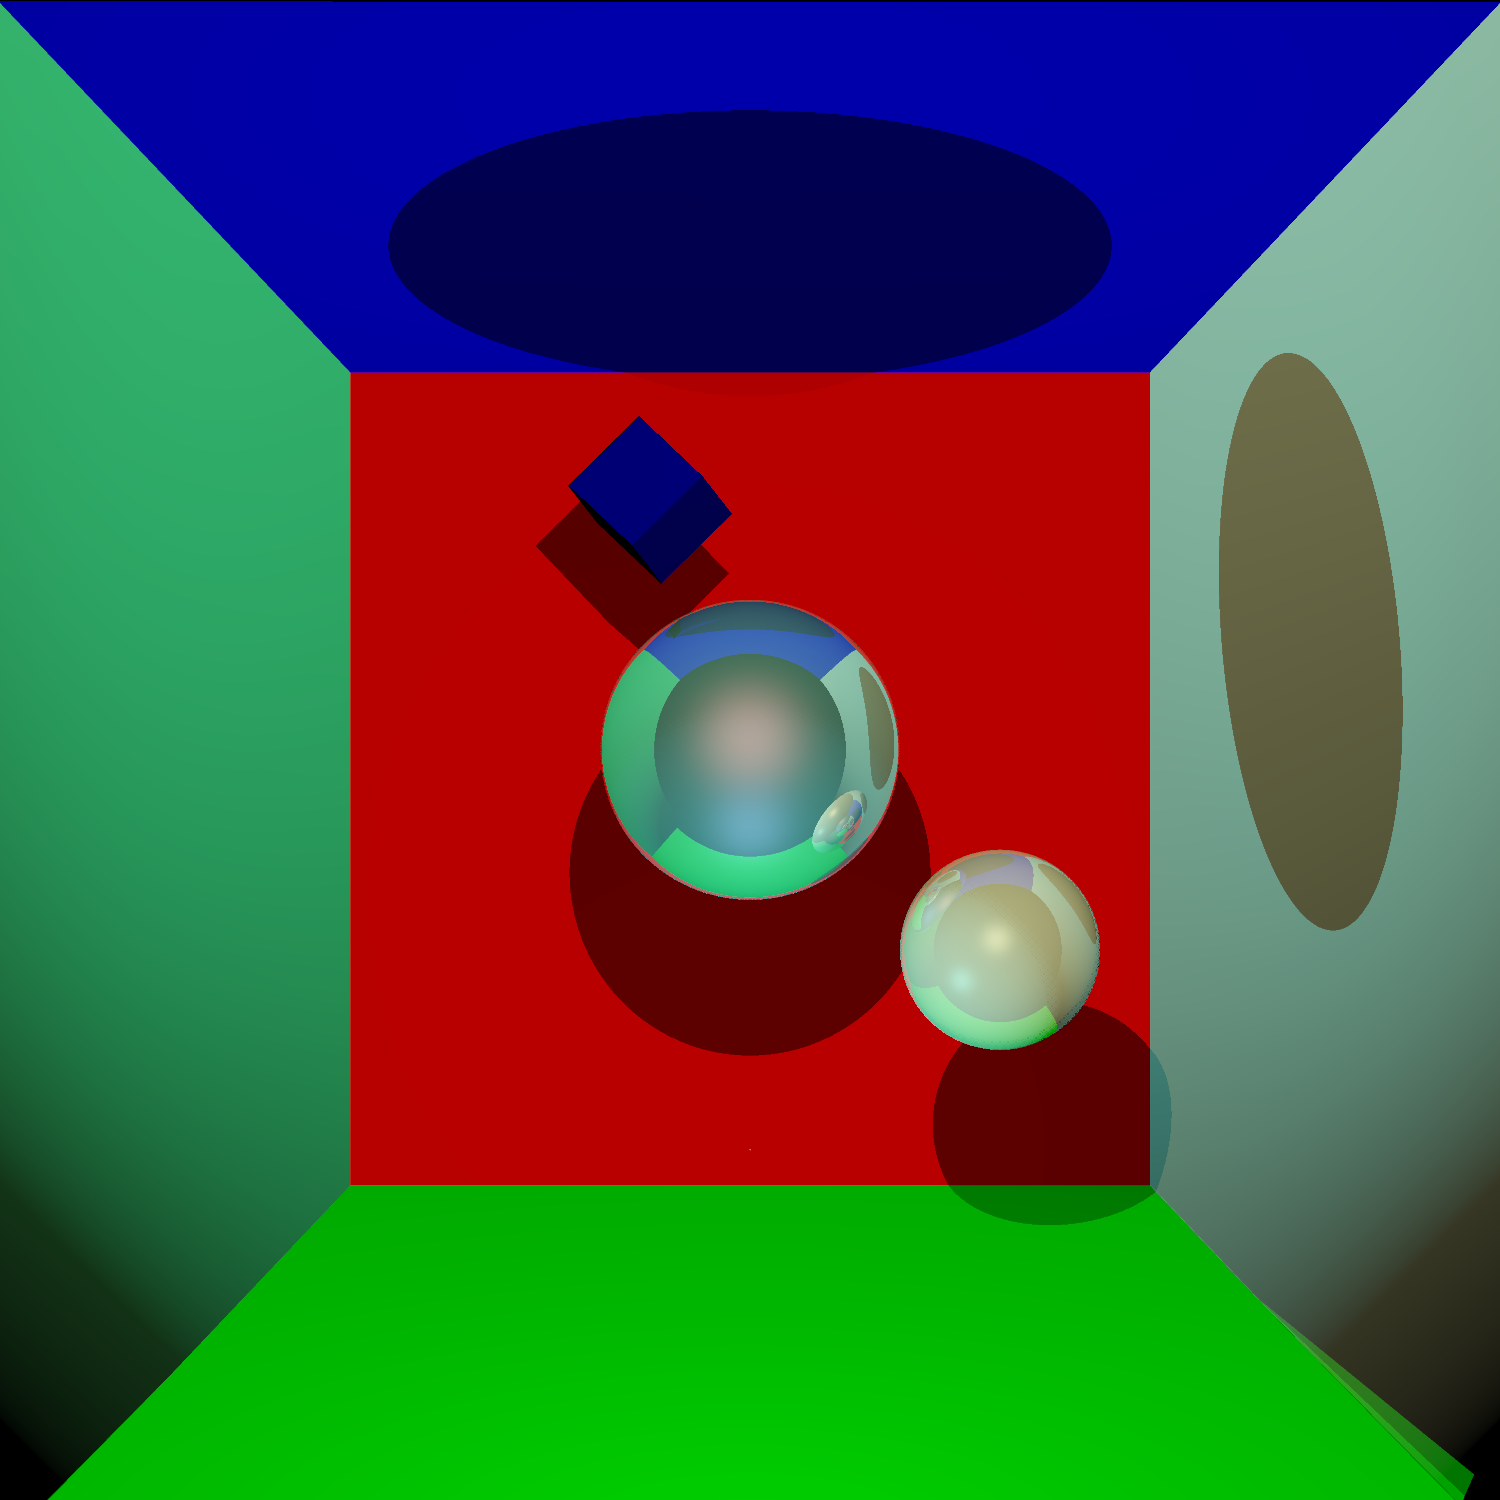
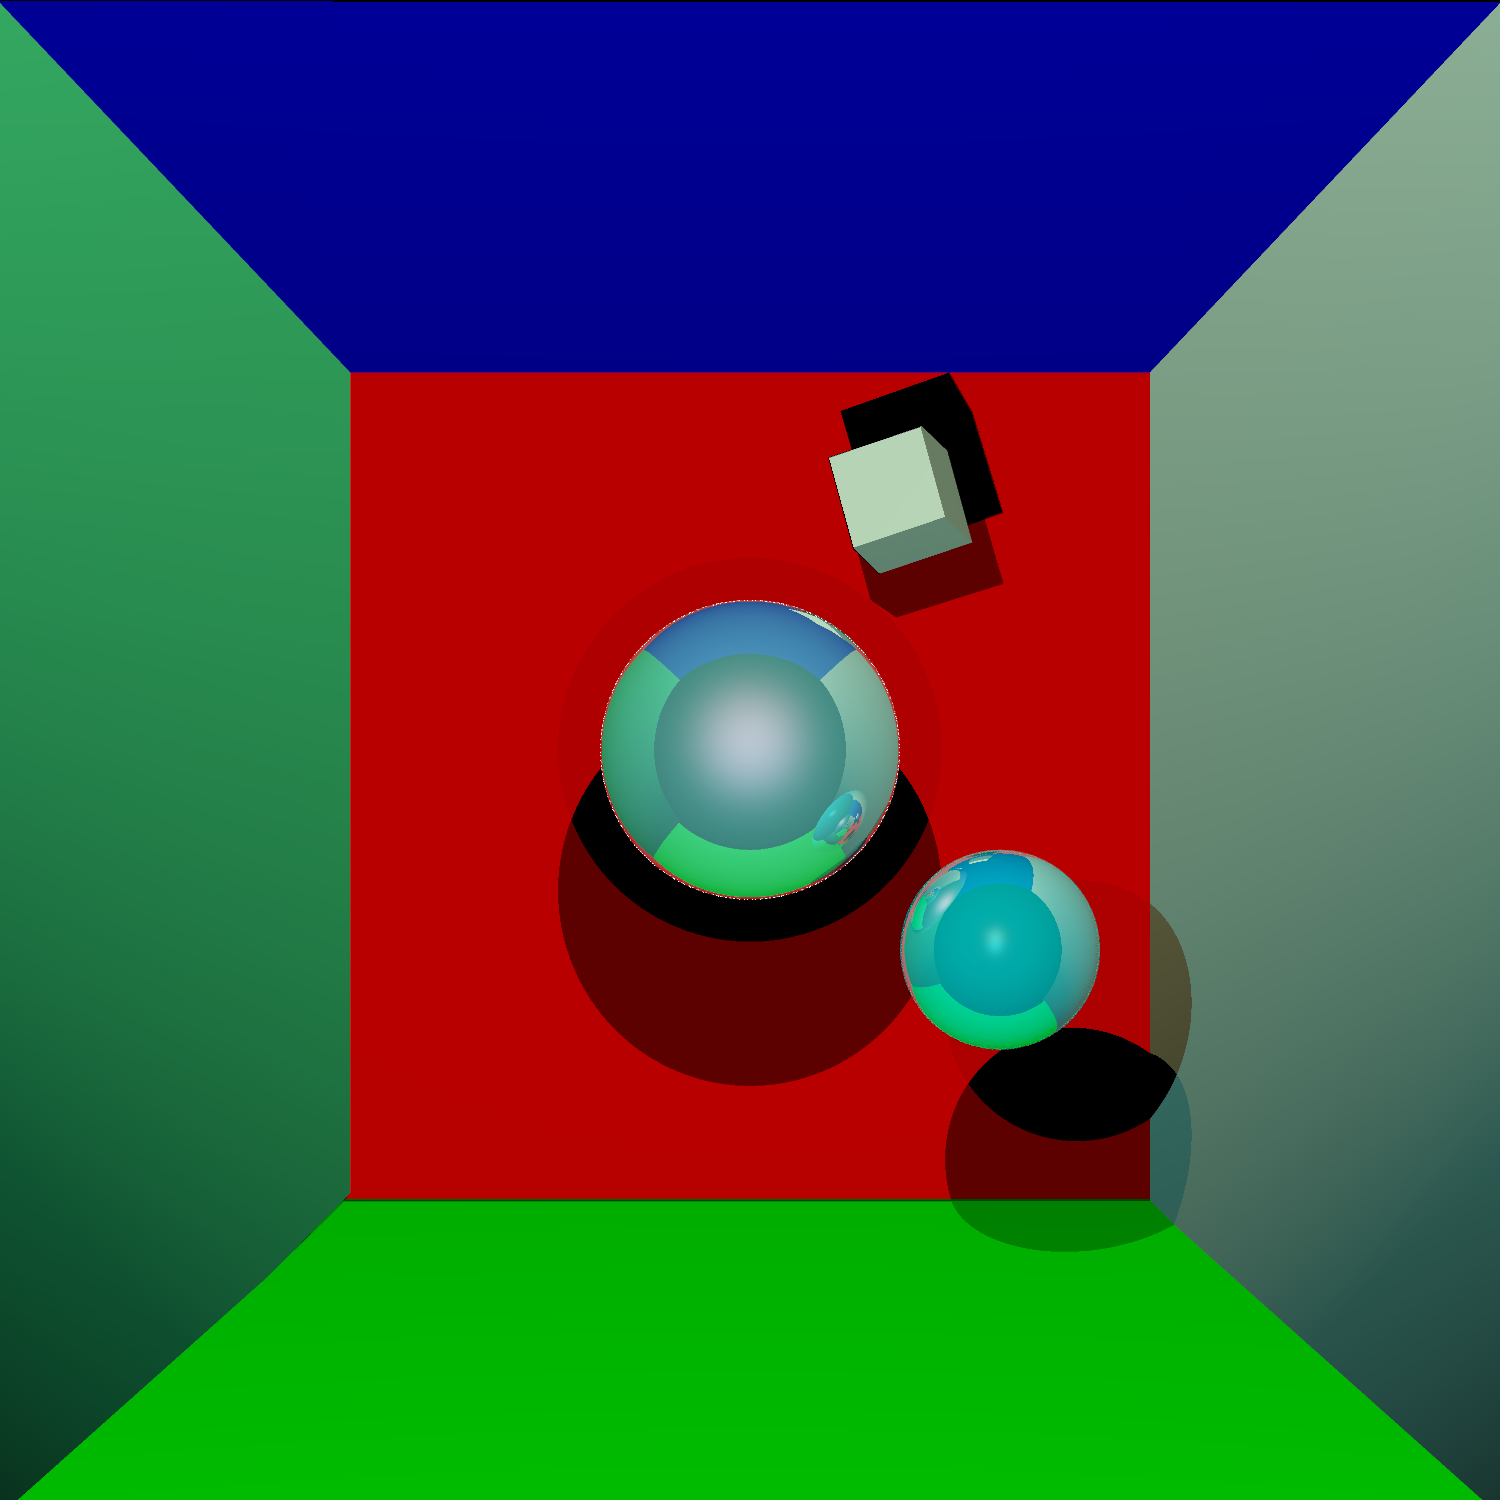
scene màj

diff --git a/src/cpp/raytracer.cpp b/src/cpp/raytracer.cpp
@@ -181,19 +181,14 @@ bool draw(char *outputName, scene &myScene)
               // Si un objet est touché par le rayon réflechi, ca veut dire que la surface actuelle est dans l'ombre ! Donc rien à faire
               // En revanche, si il n'y a aucun objet entre la surface actuelle et la lumière :
               if (!inShadow)
-              {
+              { 
+                // Lambert
                 float lambert = (lightRay.dir * n_temp) * coef;
                 output.red += lambert * current.couleur.red * currentMat.diffuse.red;
                 output.green += lambert * current.couleur.green * currentMat.diffuse.green;
                 output.blue += lambert * current.couleur.blue * currentMat.diffuse.blue;
 
 				        // Blinn 
-                // La direction de Blinn est exactement � mi chemin entre le rayon
-                // lumineux et le rayon de vue. 
-                // On calcule le vecteur de Blinn et on le rend unitaire
-                // puis on calcule le co�fficient de blinn
-                // qui est la contribution sp�culaire de la lumi�re courante.
-
                 float fViewProjection = viewRay.dir * n_temp;
                 vecteur blinnDir = lightRay.dir - viewRay.dir;
                 float temp = blinnDir * blinnDir;
@@ -210,7 +205,7 @@ bool draw(char *outputName, scene &myScene)
             viewRay.start.pos = newStart;
 		        viewRay.dir = viewRay.dir - reflet * n;
             level++;
-          } while ((coef > 0.0f) && (level < 10));
+          } while ((coef > 0.0f) && (level < 50));
 
           // modification de l'exposition : On définit le terme exposure comme on l'entend entre 0 et -1
           float exposure = -0.3f;
